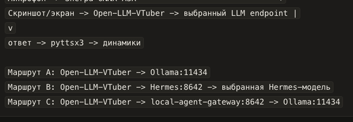
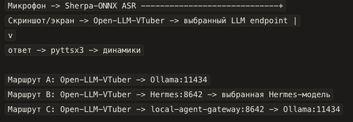
Перезалить левый кадр практикума: верхняя строка была разрезана
Глаза-Уши нашли на живой странице то, чего не видели в файле: у кадра
первого практикума верхняя строка «Микрофон → Sherpa-ONNX ASR» была
обрезана посередине высоты. На десктопе почти незаметно, на телефоне
кадр крупнее и обрезок читается как криво вставленная картинка.

Они сдвинули окно съёмки на 14 пикселей вверх. Размер прежний 353x122.

Проверил, что файл ДЕЙСТВИТЕЛЬНО другой, прежде чем выкладывать: хеш
3ff8d898 -> 1718675d, вес 24490 -> 27430. Иначе выложил бы то же самое и
отчитался о починке, которой не было.

diff --git a/praktikum/index.html b/praktikum/index.html
@@ -26,7 +26,7 @@
         </div>
         <div class="grid">
         <a class="card" href="/praktikum/testirovanie/">
-          <img class="course-shot" src="/assets/shots/praktikum-marshruty.png?v=3ff8d898" alt="" width="353" height="122" decoding="async" loading="lazy">
+          <img class="course-shot" src="/assets/shots/praktikum-marshruty.png?v=1718675d" alt="" width="353" height="122" decoding="async" loading="lazy">
           <p class="kicker">Практикум · веб + PDF</p>
           <h3>Локальные AI-агенты, Git и DevOps</h3>
           <p class="tagline">Windows + macOS | Codex + Hermes | Ollama + Open-LLM-VTuber</p>
